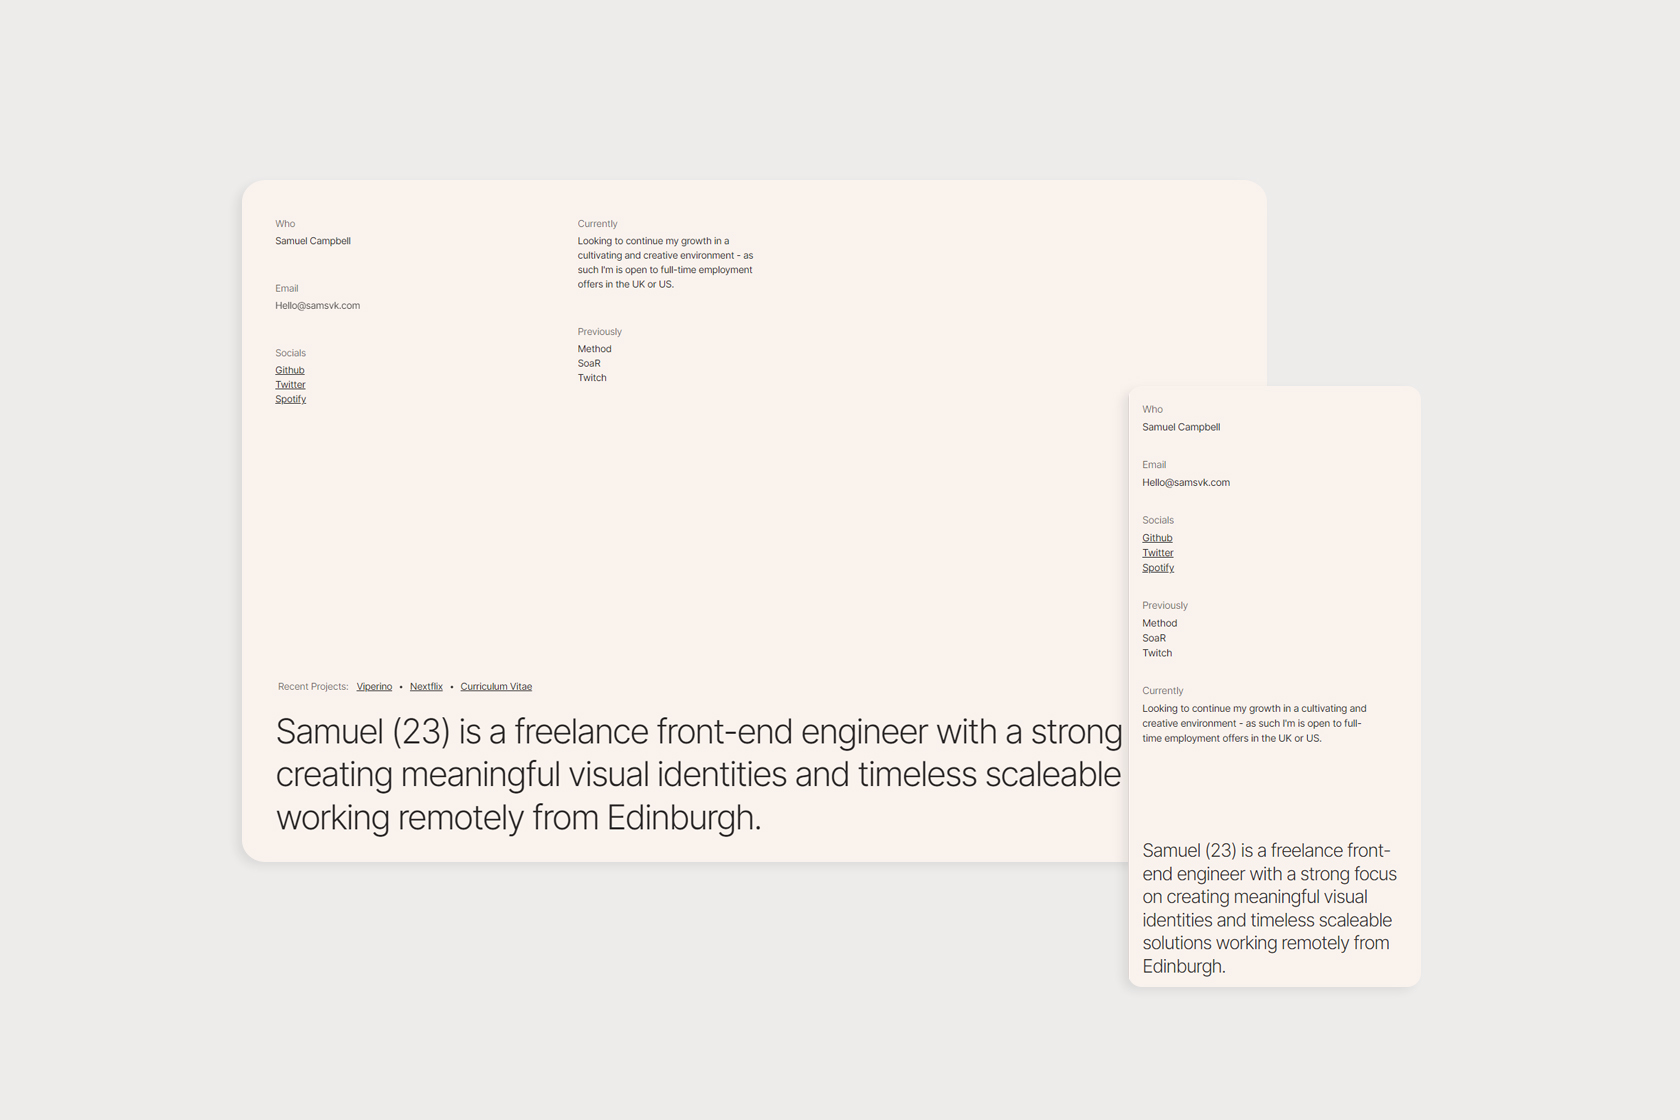
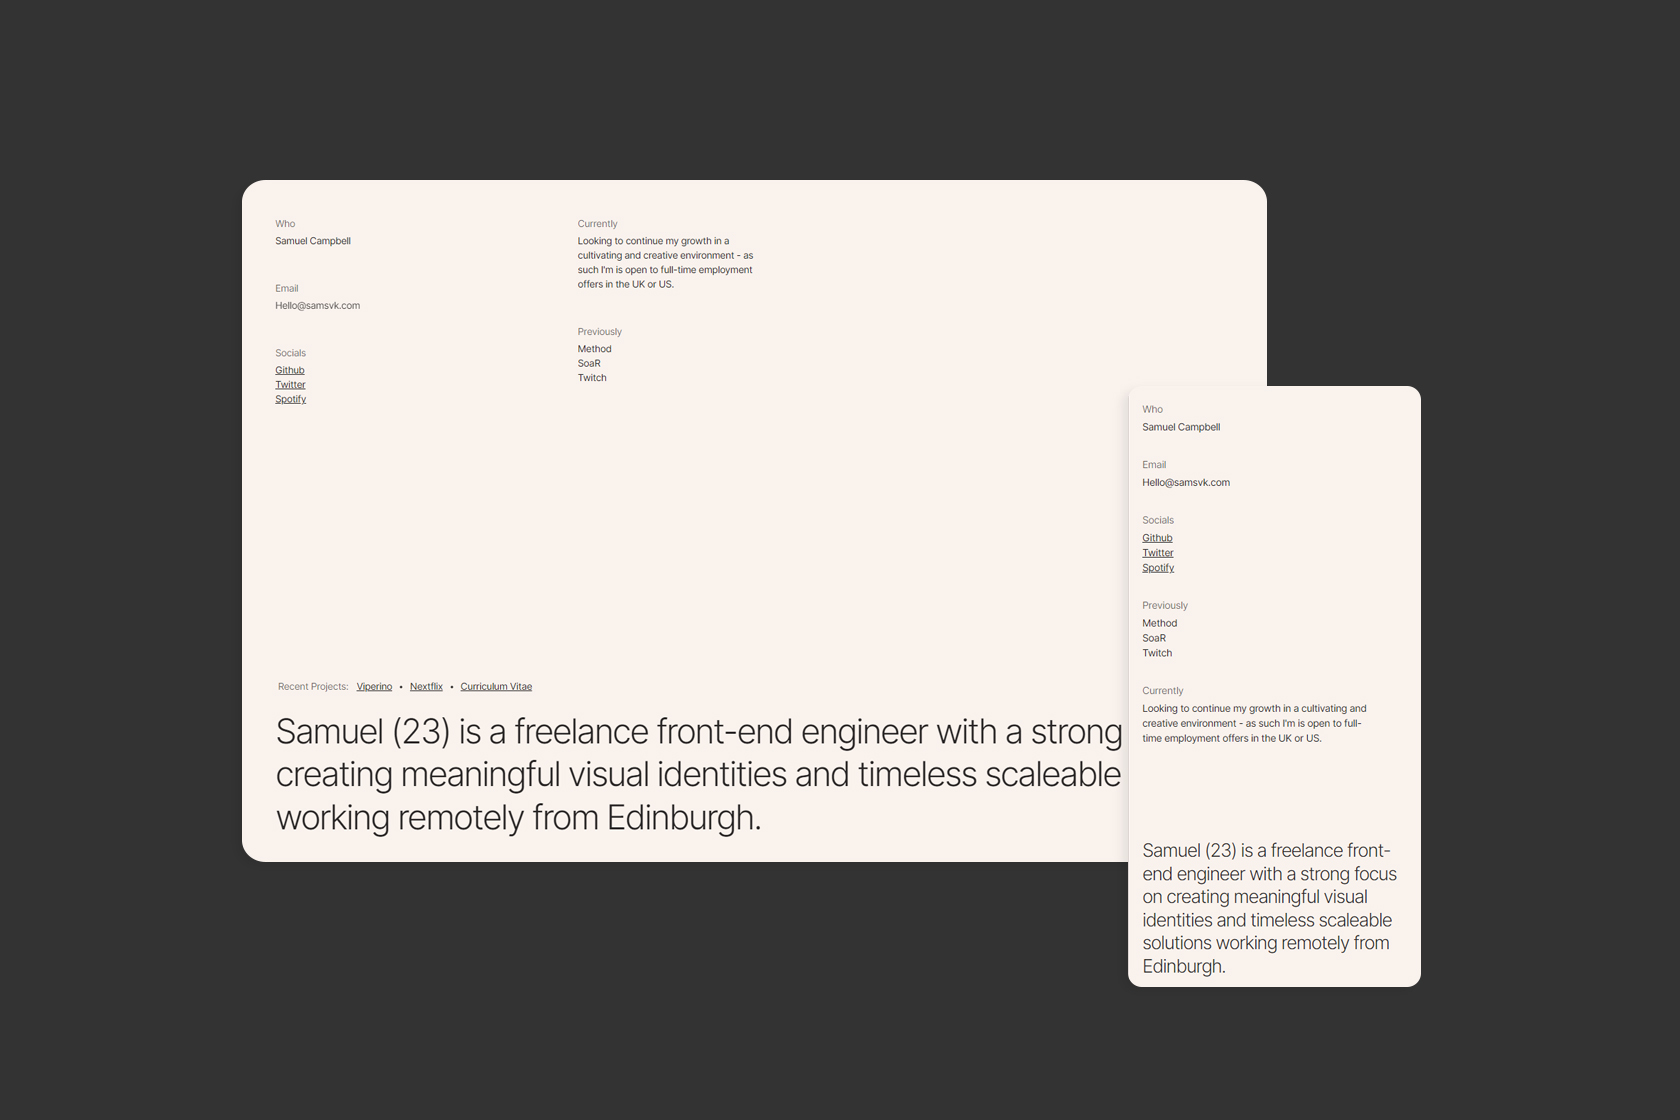
updated

diff --git a/src/components/lightroom.js b/src/components/lightroom.js
@@ -14,7 +14,7 @@ const Lightroom = (props) => {
             animate={{ opacity: 1 }}
             exit={{ opacity: 0 }}
             transition={{ duration: 0.2, ease: "easeInOut" }}
-            className="fixed top-0 min-w-full min-h-full max-h-screen bg-[#edeceb] z-[100]"
+            className="fixed top-0 min-w-full min-h-full max-h-screen bg-[#111111] z-[100]"
           >
             <div className="max-w-[1280px] items-center  mx-auto mt-10 flex flex-col">
               <div className="mt-1 relative rounded-lg pt-[55%] w-[100%] bg-black/5 overflow-hidden drop-shadow-md">
@@ -28,8 +28,8 @@ const Lightroom = (props) => {
                 />
               </div>
               <button
-                className="text-[12px] mt-10 font-[500] tracking-tight text-main-secondary leading-normal align-text-top text-start pr-5 pl-3 py-2
-            w-max  hover:cursor-pointer uppercase rounded-full border border-main-default/10 flex items-center"
+                className="text-[12px] mt-10 font-[500] tracking-tight text-new-grey2 hover:text-new-grey1 duration-150 leading-normal align-text-top text-start pr-5 pl-3 py-2
+            w-max  hover:cursor-pointer uppercase rounded-full border border-new-border flex items-center"
                 onClick={() => props.setImg(null)}
               >
                 <IoMdArrowForward

diff --git a/src/components/swiper.js b/src/components/swiper.js
@@ -22,7 +22,7 @@ export const Swipe = ({ views }) => {
               key={i}
               className="w-[75%!important] [&:nth-child(1)]:ml-12 last:mr-12"
             >
-              <div className="block relative pt-[55%] bg-[#edeceb] rounded-xl overflow-hidden">
+              <div className="block relative pt-[55%] bg-[#111111] rounded-xl overflow-hidden">
                 <Image
                   quality={100}
                   loading="eager"

diff --git a/src/static/constants.js b/src/static/constants.js
@@ -66,6 +66,12 @@ export const CV_PROJECTS = [
     url: "/projects/nextflix/main.jpg",
   },
   {
+    name: "vivixstar",
+    time: { from: "2022" },
+    tech: ["Next", "Tailwind"],
+    url: "/projects/vi/main.jpg",
+  },
+  {
     name: "Mograine",
     time: { from: "2021" },
     tech: ["Typescript", "BEM"],
